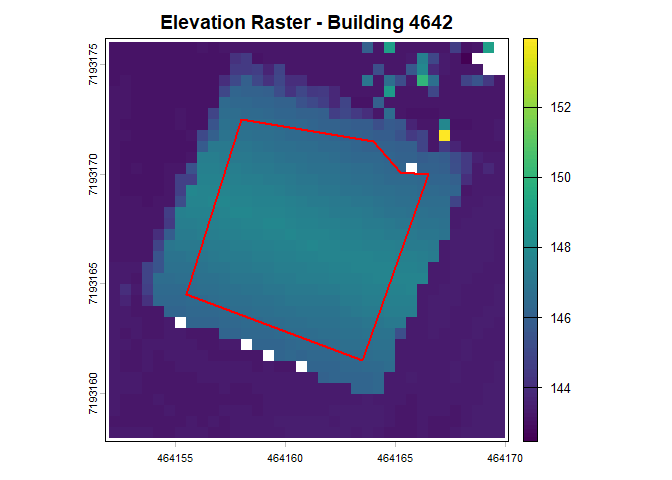
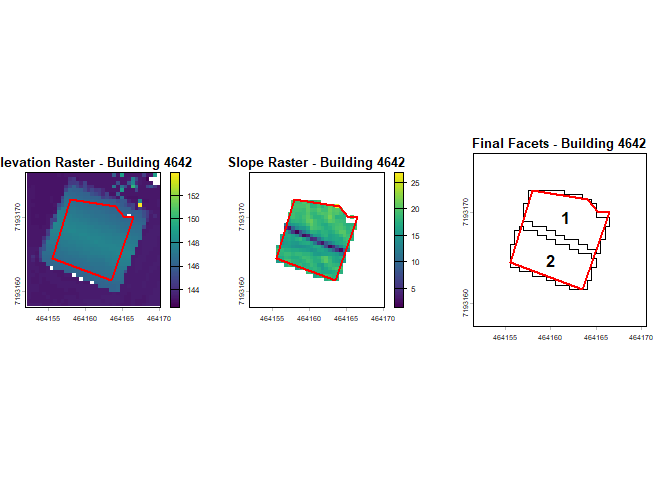
Changed plotting in the readme

diff --git a/README.md b/README.md
@@ -59,11 +59,13 @@ roof into its distinct roof facets. The function also has options for
 whether to print out information about the facet separation,
 two-dimensional plots showing the process of arriving at the final
 facets, and three-dimensional plots that give you a closer look at the
-final facets and how well they fit the data. For the demonstration, we
+final facets and how well they fit the data. For this demonstration, we
 will use the options that print out extra information and
 two-dimensional plots.
 
 ``` r
+par(mfrow = c(1,3))
+
 fs_results <- facet_separation(4642,
                                sample_buildings,
                                sample_raster,
@@ -79,7 +81,7 @@ fs_results <- facet_separation(4642,
 #> Facet 3 Processed | Slope: 17.07° | Inliers: 156 | Top 5% Spread: 0.86°
 ```
 
-<img src="man/figures/README-facet-separation-1.png" alt="" width="100%" /><img src="man/figures/README-facet-separation-2.png" alt="" width="100%" /><img src="man/figures/README-facet-separation-3.png" alt="" width="100%" />
+<img src="man/figures/README-facet-separation-1.png" alt="" width="100%" />
 
 The `facet_snow_summary` function is used on the output from the
 `facet_separation` function and a snow depth raster to create a
